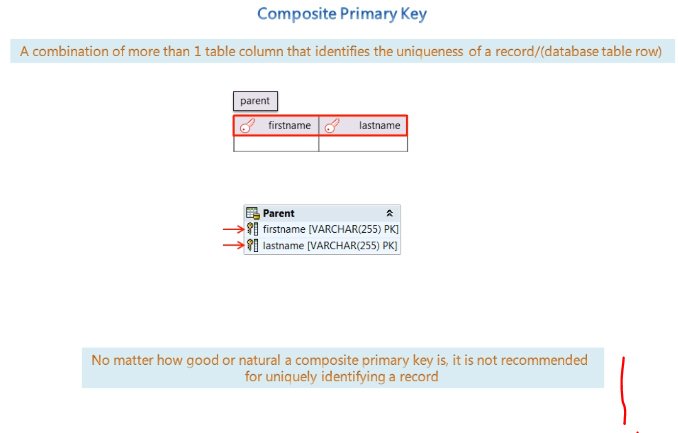
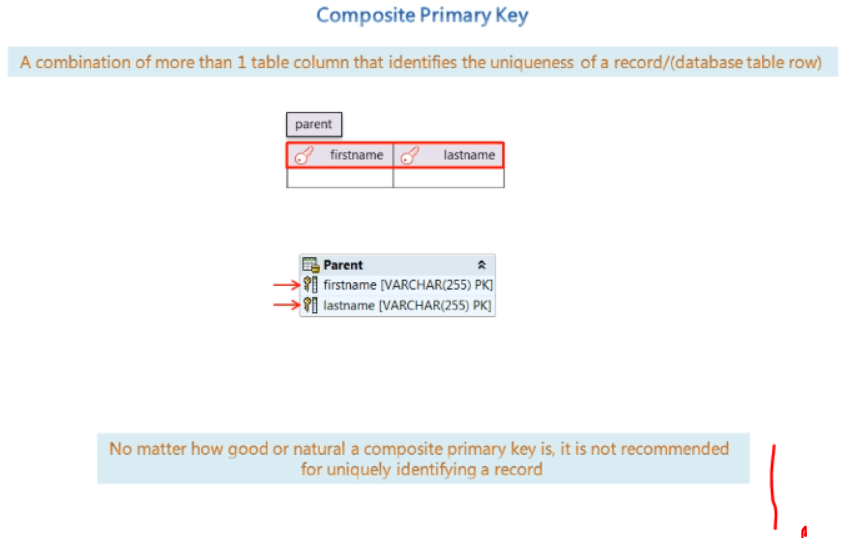
proceeded

diff --git a/Java Persistence Hibernate and JPA Fundamentals/Section 04/README.md b/Java Persistence Hibernate and JPA Fundamentals/Section 04/README.md
@@ -1210,25 +1210,32 @@ Question 1: Considering the code in the Item entity given below in Figure
 
 # Composite Keys.
 
-<img src="compositePrimaryKey.PNG" alt="hibernate course" width=" 500"/>
+<img src="compositePrimaryKey.PNG" alt="hibernate course" width=" 600"/>
 
 1. `Composite Key` makes the table column to **identified** uniquely.
-2. Is it good to make `firstname` and `lastname` as **composite key**.
-    - No it is not.
-3. There can be **multiple states**, where they will be identified as different, even thought the values are the **same**!
+2. Is it good to make `firstname` and `lastname` as **composite key**?
+    - **No it is not**, for reasons:
+        - Many people share the same first and last names.
+        -  Example: There could be many `John Smith` in the world.
+        - You risk **duplicate key** violations or incorrect data overwriting.
+3. There can be **multiple states**, where they can be identified, **non uniquely**.
 
 <img src="compositePrimaryKeySecond.PNG" alt="hibernate course" width=" 500"/>
 
-- Todo what is record?
+1. It is not **recommended** to use `first_name` and `second_name` for **uniquely** identify record.
+    - This refers to using **real-world data** (like names, emails, etc.) as keys.
+    - It's better to know this since, **some legacy** system can have this **wrong** way to make **composite key**.
+
+- **Record** in this context this means a **database row** or **inserter record into database**.
 
 <img src="howToMakeCompisiteKeyFromFirstNameAndLastName.PNG" alt="hibernate course" width="300"/>
 
 1. How we will make **composite key** from `firstName` and `lastName`?
-
+    
 <img src="makingCompositeKeyInTheEntity.PNG" alt="hibernate course" width="400"/>
 
 1. We need to **encapsulate** the **composite key attributes**.
-    - Call it similar to`ParentPrimaryKey` class.
+    - Call it similar to `ParentPrimaryKey.java` or some other name.
     - Implement the Serializable, example: `implements Serializable`.
 2. Implements `.equals()` and the `hashCode()`.
     - These are implemented for the **comparing uniqueness** in the **memory** and in the **cache**!
@@ -1249,3 +1256,32 @@ private ParentPrimaryKey parentPrimaryKey;
 <img src="configAndUsage.PNG" alt="hibernate course" width="400"/>
 
 1. The following the same configurations.
+2. Straight forward to `.persist()` the **composite key** class.
+
+<img src="bussinessKey.PNG" alt="hibernate course" width="400"/>
+
+1. We should not use **Business Key** or **Composite Key** for uniquely identify the record.
+    - **Business Key** is also called **Natural Key**.
+2. **Business Key** has not only **unique identifier** it also has **business meaning** associated to it!
+    - **Uniquely** identified.
+    - Has **Business meaning**.
+
+<img src="isbnAndSocialNumber.PNG" alt="hibernate course" width="600"/>
+
+- Here is the example of **Business Keys**.
+    - **Business Keys** should not be used for the **primary key**.
+1. For example **ISBN** in the book `Entity`.
+2. For example **social security number** in the `Person` **Entity**.
+
+- So make sure, when designing **Entity**, that the **primary key** does not have any **business** association. Below the updated version:
+
+<img src="syntheticIndentifier.PNG" alt="hibernate course" width="600"/>
+
+1. It's **recommended** to have **Synthetic Identifier** in your **entities**.¨
+2. Synthetic identifier has no business meaning.
+
+ > Using a synthetic auto-incremented key as the primary key is the default.
+
+<img src="compositeForeignKey.PNG" alt="hibernate course" width="600"/>
+
+> When using a **composite foreign key**, the referencing table must have the **same number of columns as the composite primary** (or candidate) key in the referenced table.
